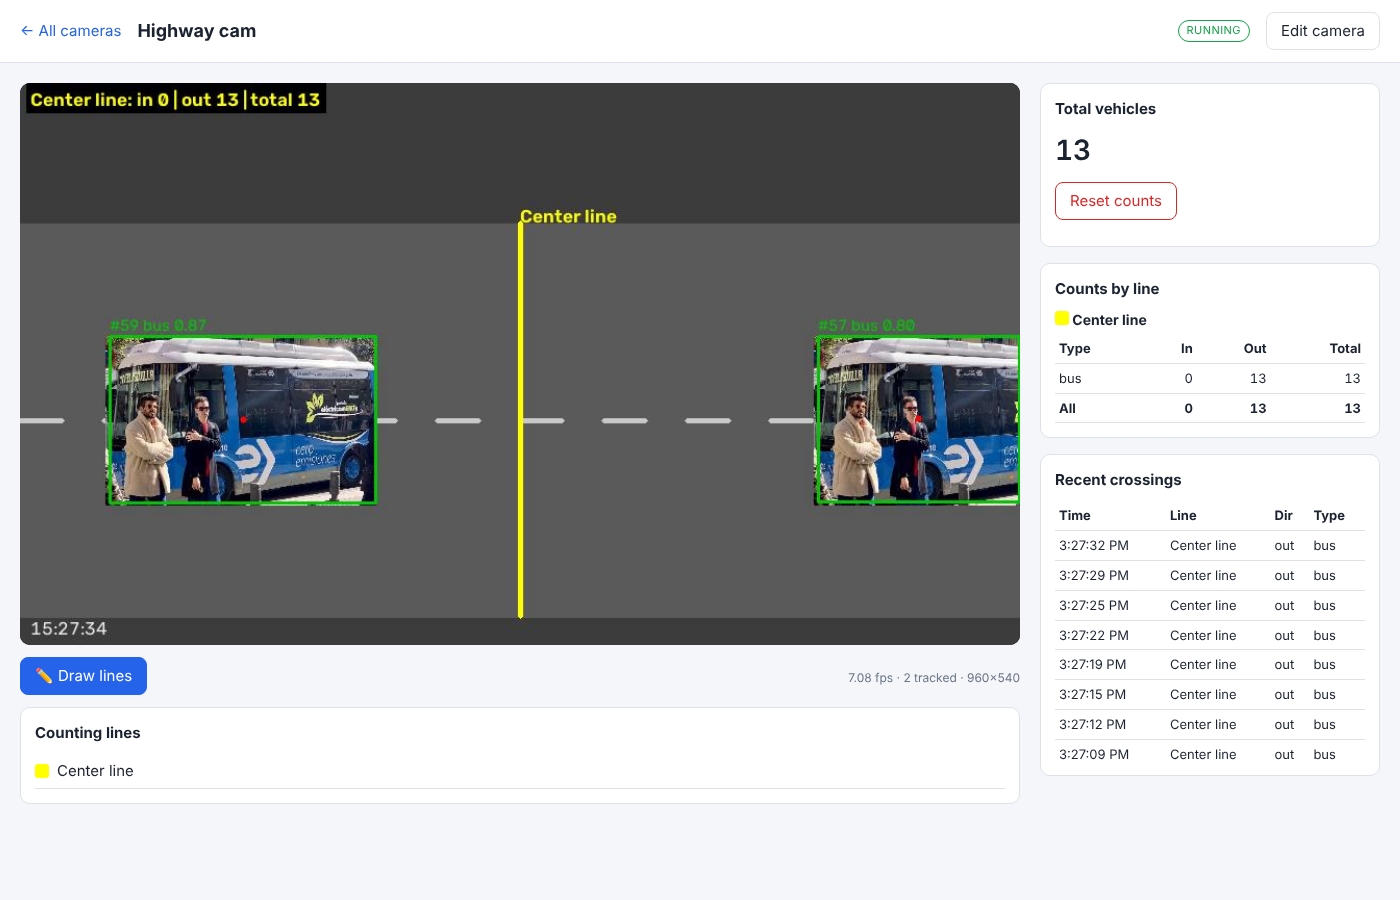
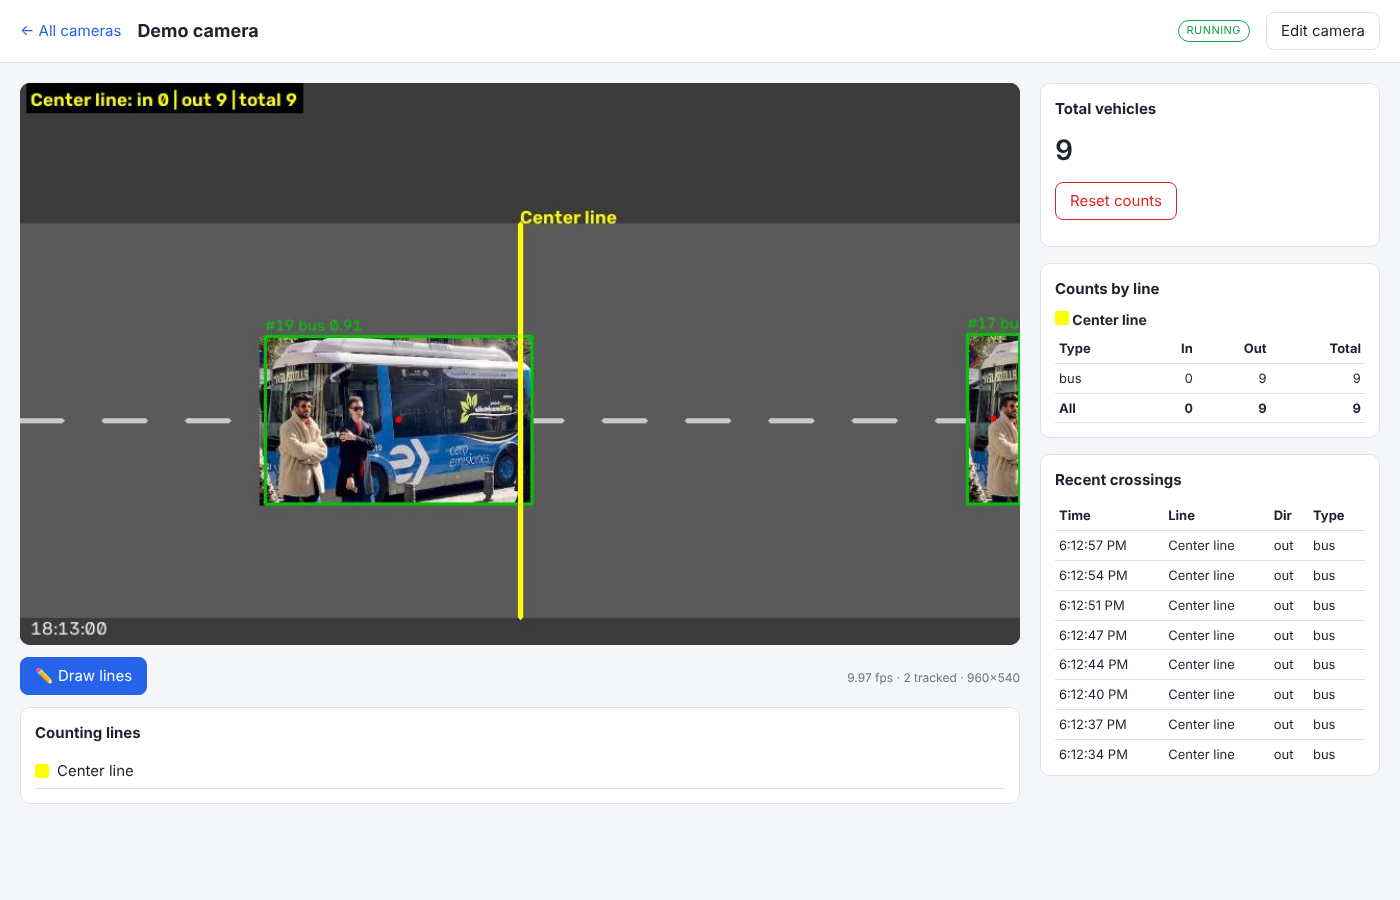
Rename the application to YOLOgate
- Portal header, page titles, API title and /api/health "app" field
- systemd unit yologate.service (/opt/yologate, /var/lib/yologate),
  docker-compose service/volume, Docker user, Codespaces labels and logs
- Database file yologate.db; an existing vehicle_counter.db keeps being used
- README and screenshots updated

Claude-Session: https://claude.ai/code/session_01YCWFBBTxDva7gDZ9QK9Tzu

diff --git a/app/static/camera.html b/app/static/camera.html
@@ -2,7 +2,7 @@
 <html lang="en">
 <head>
 <meta charset="utf-8"><meta name="viewport" content="width=device-width,initial-scale=1">
-<title>Camera · Vehicle Counter</title>
+<title>Camera · YOLOgate</title>
 <link rel="stylesheet" href="/static/style.css">
 </head>
 <body>
@@ -204,7 +204,7 @@ async function update() {
     const [c, events] = await Promise.all([api(`/api/cameras/${camId}`), api(`/api/cameras/${camId}/events?limit=30`)]);
     cam = c;
     const s = c.status;
-    document.title = `${c.name} · Vehicle Counter`;
+    document.title = `${c.name} · YOLOgate`;
     document.getElementById("title").textContent = c.name;
     const st = document.getElementById("state"); st.textContent = s.state; st.className = "pill state-" + s.state;
     document.getElementById("total").textContent = s.total;

diff --git a/app/static/style.css b/app/static/style.css
@@ -13,6 +13,7 @@ body { margin: 0; font: 15px/1.45 system-ui, -apple-system, "Segoe UI", Roboto, 
 a { color: var(--accent); text-decoration: none; }
 header { display: flex; align-items: center; gap: 16px; padding: 12px 20px; background: var(--panel); border-bottom: 1px solid var(--border); position: sticky; top: 0; z-index: 5; }
 header h1 { font-size: 18px; margin: 0; flex: 1; }
+header h1 .tagline { font-size: 13px; font-weight: 400; color: var(--muted); margin-left: 6px; }
 header .meta { color: var(--muted); font-size: 13px; }
 main { max-width: 1400px; margin: 0 auto; padding: 20px; }
 button, .btn { white-space: nowrap; font: inherit; border: 1px solid var(--border); background: var(--panel); color: var(--text); padding: 7px 14px; border-radius: 8px; cursor: pointer; }

diff --git a/app/static/index.html b/app/static/index.html
@@ -2,12 +2,12 @@
 <html lang="en">
 <head>
 <meta charset="utf-8"><meta name="viewport" content="width=device-width,initial-scale=1">
-<title>Vehicle Counter</title>
+<title>YOLOgate</title>
 <link rel="stylesheet" href="/static/style.css">
 </head>
 <body>
 <header>
-  <h1>🚗 Vehicle Counter</h1>
+  <h1>🚦 YOLOgate <span class="tagline">AI vehicle counting</span></h1>
   <span class="meta" id="meta"></span>
   <button class="primary" id="addBtn">+ Add camera</button>
 </header>

diff --git a/app/main.py b/app/main.py
@@ -13,7 +13,7 @@ from fastapi.responses import FileResponse, JSONResponse, Response, StreamingRes
 from fastapi.staticfiles import StaticFiles
 from pydantic import BaseModel, Field
 
-from . import __version__
+from . import APP_NAME, __version__
 from .agent import CameraAgent
 from .config import Settings
 from .db import Database
@@ -63,7 +63,7 @@ def create_app(settings: Optional[Settings] = None, detector=None) -> FastAPI:
             agent.stop()
             db.close()
 
-    app = FastAPI(title="Vehicle Counter", version=__version__, lifespan=lifespan)
+    app = FastAPI(title=APP_NAME, description="AI vehicle counting for any camera", version=__version__, lifespan=lifespan)
 
     def db_(request: Request) -> Database:
         return request.app.state.db
@@ -95,7 +95,7 @@ def create_app(settings: Optional[Settings] = None, detector=None) -> FastAPI:
     @app.get("/api/health")
     def health(request: Request):
         agent = agent_(request)
-        return {"status": "ok", "version": __version__, "detector": request.app.state.detector_name,
+        return {"status": "ok", "app": APP_NAME, "version": __version__, "detector": request.app.state.detector_name,
                 "cameras": len(db_(request).list_cameras()), "workers": len(agent.workers)}
 
     @app.get("/api/cameras")

diff --git a/tests/test_api.py b/tests/test_api.py
@@ -57,7 +57,8 @@ def wait_for(pred, timeout=20.0, interval=0.2):
 
 def test_health_and_pages(client):
     assert client.get("/api/health").json()["status"] == "ok"
-    assert "Vehicle Counter" in client.get("/").text
+    assert "YOLOgate" in client.get("/").text
+    assert client.get("/api/health").json()["app"] == "YOLOgate"
     assert client.get("/camera/1").status_code == 200
     assert client.get("/static/common.js").status_code == 200
 

diff --git a/app/config.py b/app/config.py
@@ -33,7 +33,9 @@ class Settings:
 
     @property
     def db_path(self) -> Path:
-        return self.data_dir / "vehicle_counter.db"
+        legacy = self.data_dir / "vehicle_counter.db"  # name used before the YOLOgate rename
+        new = self.data_dir / "yologate.db"
+        return legacy if legacy.exists() and not new.exists() else new
 
 
 # COCO class ids considered "vehicles".

diff --git a/app/__init__.py b/app/__init__.py
@@ -1,2 +1,3 @@
-"""Vehicle counter: live camera streams + YOLO + line-crossing counting."""
+"""YOLOgate: AI vehicle counting for any camera (live streams + YOLO + line crossing)."""
+APP_NAME = "YOLOgate"
 __version__ = "1.0.0"

diff --git a/README.md b/README.md
@@ -1,4 +1,6 @@
-# Vehicle Counter
+# 🚦 YOLOgate
+
+**AI vehicle counting for any camera.**
 
 A web portal that connects to live camera streams, detects vehicles with **YOLO**
 (Ultralytics YOLO11) and counts every vehicle whose path crosses a line you draw
@@ -56,7 +58,7 @@ vehicles that stop or jitter on the line aren't counted twice.
 Notes:
 - A codespace runs in GitHub's cloud, so it can only reach cameras with a **public** URL.
   Cameras on your local network (e.g. `http://192.168.x.x/...`) aren't reachable from it.
-- To restart the app, run `bash tools/demo.sh`. Logs are in `/tmp/vehicle-counter.log`.
+- To restart the app, run `bash tools/demo.sh`. Logs are in `/tmp/yologate.log`.
 - Codespaces stop after about 30 minutes of inactivity. Stop or delete yours at
   https://github.com/codespaces to save your free hours.
 
@@ -106,23 +108,23 @@ Then add the camera `http://localhost:8081/video` (MJPEG) or
 ### Docker
 
 ```bash
-docker compose up -d                 # portal on :8000, data in the vc-data volume
+docker compose up -d                 # portal on :8000, data in the yologate-data volume
 docker compose --profile demo up -d  # also starts a fake camera at http://fake-camera:8081/video
 ```
 
 The image is the **lite** build (ONNX + OpenCV, no PyTorch, about 0.5 GB). For the
-full Ultralytics/PyTorch build, run `docker build --build-arg FULL=1 -t vehicle_counter:full .`.
+full Ultralytics/PyTorch build, run `docker build --build-arg FULL=1 -t yologate:full .`.
 
 Or run the image that CI publishes:
 
 ```bash
-docker run -d -p 8000:8000 -v vc-data:/data ghcr.io/anfilhabeeb/vehicle_counter:latest
+docker run -d --name yologate -p 8000:8000 -v yologate-data:/data ghcr.io/anfilhabeeb/vehicle_counter:latest
 ```
 
 ### systemd service
 
 ```bash
-sudo ./deploy/install.sh     # installs to /opt/vehicle_counter, starts vehicle-counter.service
+sudo ./deploy/install.sh     # installs to /opt/yologate, starts yologate.service
 ```
 
 ## Configuration (environment variables)
@@ -168,6 +170,11 @@ on a generated traffic video. GitHub Actions runs all tests on every push, build
 image, smoke-tests it and publishes it to GHCR.
 
 ## Notes
+
+- The Docker image path (`ghcr.io/anfilhabeeb/vehicle_counter`) follows the GitHub repository name.
+  If you rename the repository to `yologate`, CI publishes to `ghcr.io/anfilhabeeb/yologate`; update
+  `docker-compose.yml` to match.
+- Environment variables keep the `VC_` prefix.
 
 - YOLO11 model weights and the sample bus image come from Ultralytics and are licensed under
   AGPL-3.0. Check Ultralytics' licensing before commercial use.
